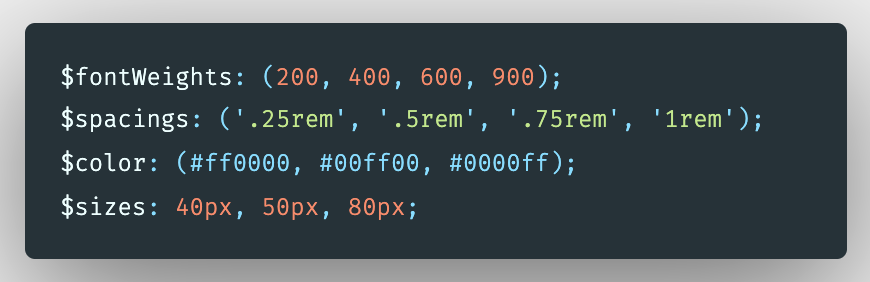
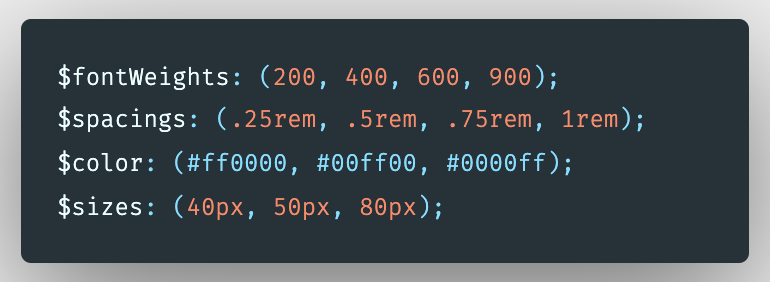
👌 IMPROVE: CSS Preprocessors - Tweaks

diff --git a/CSSPreProcessors/CSSPreProcessors.md b/CSSPreProcessors/CSSPreProcessors.md
@@ -247,7 +247,7 @@ Sass Lists are essentially arrays, they hold a list of values. The individual el
 $fontWeights: (200, 400, 600, 900);
 $spacings: (.25rem, .5rem, .75rem, 1rem);
 $color: (#ff0000, #00ff00, #0000ff);
-$sizes: 40px, 50px, 80px;
+$sizes: (40px, 50px, 80px);
 ```
 
 ### Maps
@@ -324,8 +324,8 @@ $icons: (
 
 .icon {
   // default icon styles
-  @each $size in $sizes {
-    &--#{$size} {
+  @each $name, $size in $sizes {
+    &--#{$name} {
       width: $size;
       height: $size;
     }
